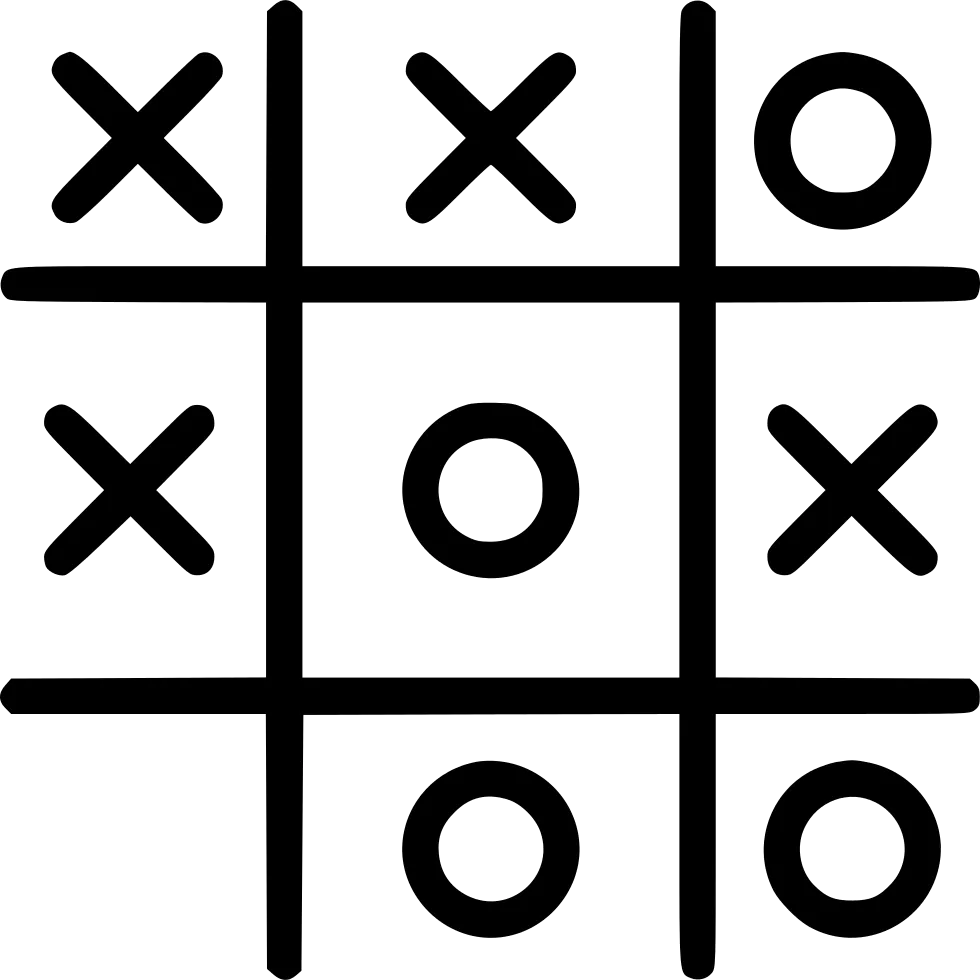
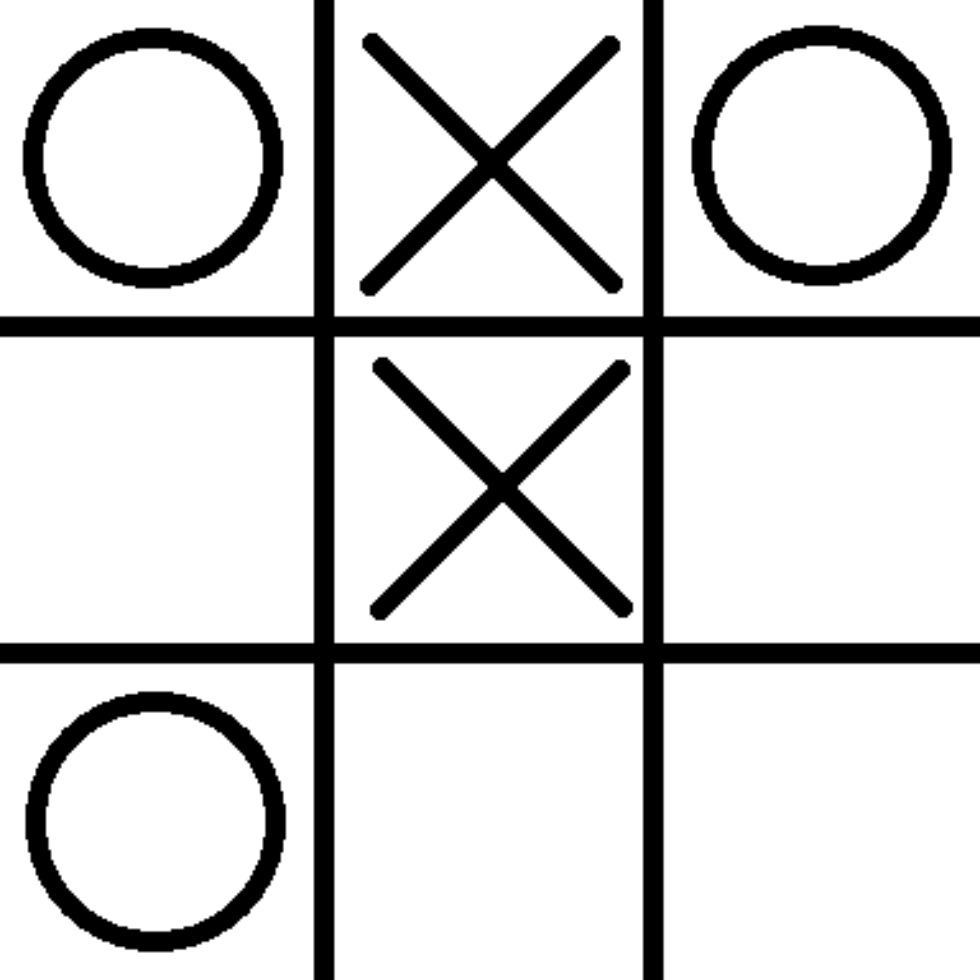
Dodano readme i usunieto zla ikone

diff --git a/README.md b/README.md
@@ -1,0 +1,4 @@
+# Tic-Tac-Toe
+
+Implementantion of Tic-Tac-Toe game in JavaFX only for Educational Purposes. User is playing against computer
+which is using Minimax algorithm to count its best move.
